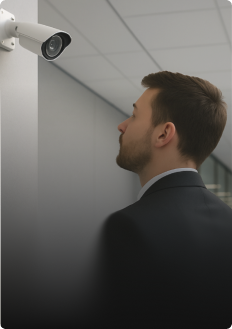
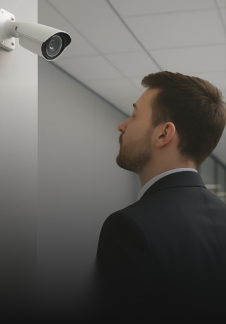
added whychooseus

diff --git a/src/components/AttendanceOptions.jsx b/src/components/AttendanceOptions.jsx
@@ -93,20 +93,20 @@ export default function AttendanceOptions() {
         {/* Carousel for mobile, grid for lg */}
         <div
           ref={carouselRef}
-          className="flex lg:grid lg:grid-cols-5 gap-4 md:gap-5 lg:gap-3 overflow-x-auto hide-scrollbar scroll-smooth snap-x snap-mandatory"
+          className="flex lg:grid lg:grid-cols-5  gap-4 md:gap-5 lg:gap-3 overflow-x-auto hide-scrollbar scroll-smooth snap-x snap-mandatory"
         >
           {attendanceOptions.map((option, index) => (
             <div
               key={index}
-              className="group min-w-[75%]  snap-start lg:min-w-0 relative rounded-lg overflow-hidden  transition-all duration-300 lg:hover:scale-100"
+              className="group min-w-[75%]  snap-start lg:min-w-0 relative  overflow-hidden  transition-all duration-300 lg:hover:scale-100"
             >
-              <div className="w-full h-full transform transition-transform duration-500 lg:group-hover:scale-95">
+              <div className="w-full h-full  transform transition-transform duration-500 lg:group-hover:scale-95">
                 <img
                   src={option.image}
                   alt={option.title}
-                  className="w-full h-full object-cover"
+                  className="w-full rounded-md h-full object-cover"
                 />
-                <div className="absolute inset-0 flex flex-col justify-end items-start p-3 text-white bg-gradient-to-t from-black/60 via-transparent to-transparent">
+                <div className="absolute inset-0 flex flex-col justify-end items-start p-3 text-white  via-transparent to-transparent">
                   <h3 className="text-[15px] text-[#FFFFFF] poppins-font tracking-widest">
                     {option.title}
                   </h3>

diff --git a/src/components/FAQSection.jsx b/src/components/FAQSection.jsx
@@ -56,9 +56,9 @@ export default function FAQSection() {
           Frequently Asked Questions
         </h1>
 
-        <div className="flex flex-col text-[#363636] lg:flex-row gap-6 justify-between">
+        <div className="flex flex-col text-[#363636] lg:flex-row gap-3 lg:gap-6 justify-between">
           {/* Left Column */}
-          <div className="flex-1 flex flex-col gap-4">
+          <div className="flex-1 flex flex-col gap-3 md:gap-4">
             {leftFAQs.map((question, idx) => {
               const isOpen = openLeft === idx;
               return (
@@ -96,7 +96,7 @@ export default function FAQSection() {
           </div>
 
           {/* Right Column */}
-          <div className="flex-1 flex flex-col gap-4">
+          <div className="flex-1 flex flex-col  lg:mt-0 gap-3 md:gap-4">
             {rightFAQs.map((question, idx) => {
               const isOpen = openRight === idx;
               return (
@@ -132,6 +132,7 @@ export default function FAQSection() {
               );
             })}
           </div>
+          
         </div>
 
         <h2 className="text-[13px] mt-16 poppins-font text-center poppins-font text-[#2D2D2D  font-semibold uppercase mb-2">
